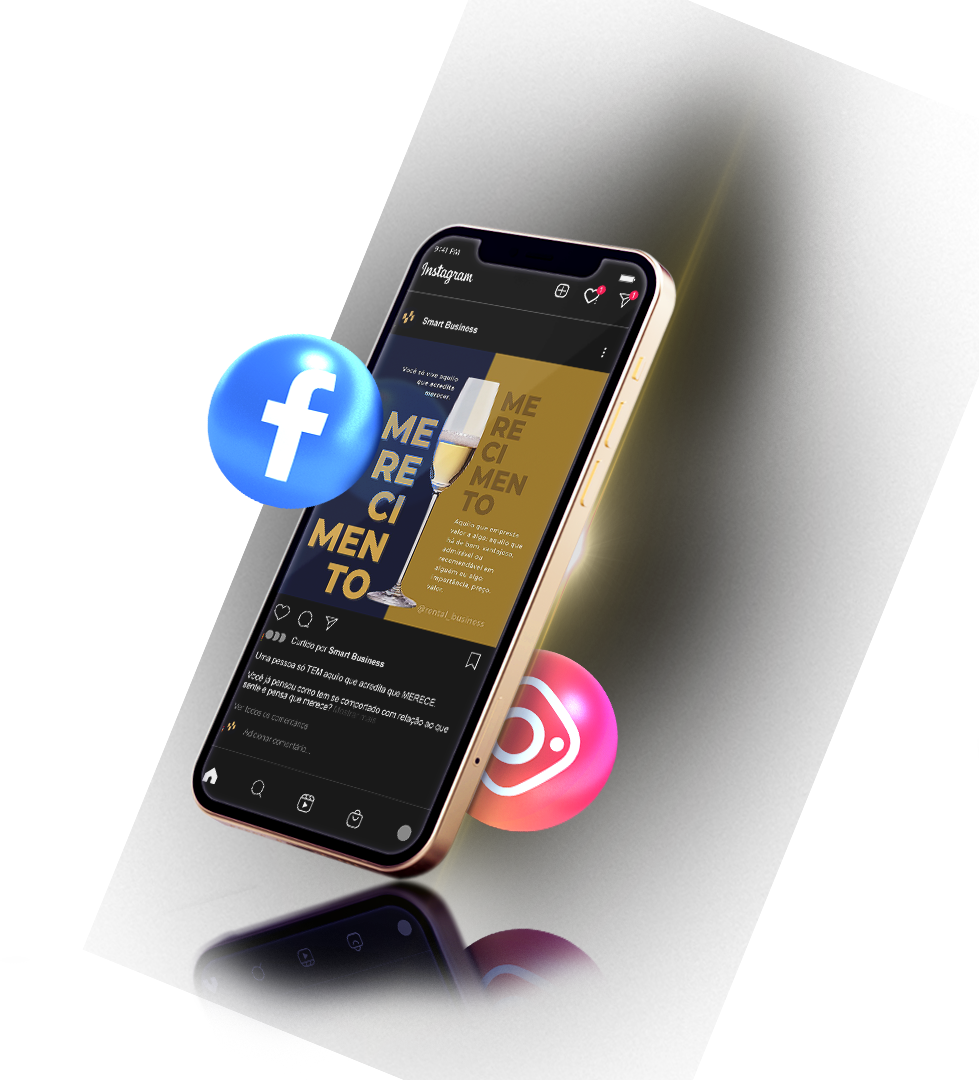
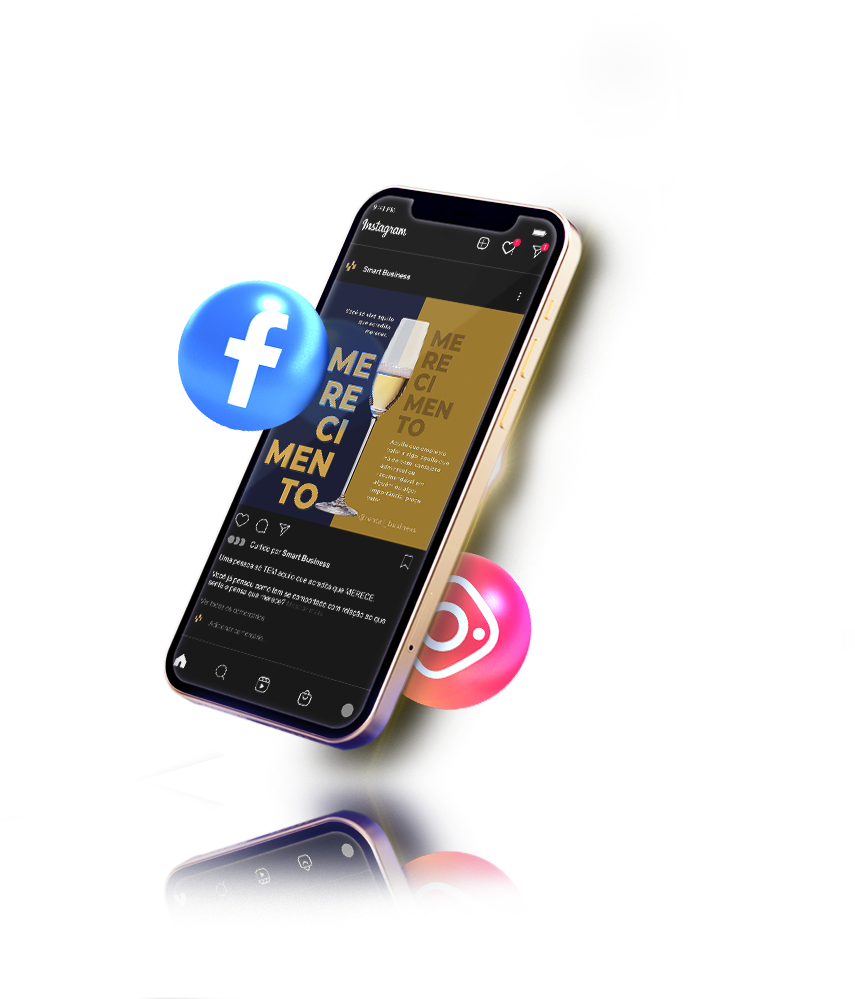
posicionamento de escritas e botoes nas tabs

diff --git a/src/components/front-page-carousel/FollowUs.js b/src/components/front-page-carousel/FollowUs.js
@@ -1,20 +1,21 @@
-import Image from 'next/image';
-import celular from '../../assets/celular.png';
-import AOS from 'aos';
-import 'aos/dist/aos.css';
-import { useEffect } from 'react';
+import Image from "next/image";
+import celular from "../../assets/celular.png";
+import AOS from "aos";
+import "aos/dist/aos.css";
+import { useEffect } from "react";
 
 export function FollowUs(props) {
-	useEffect(() => {
-		AOS.init();
-	}, []);
-	return (
-		<div className="text-gray1 text-opacity-70 text-3xl text-center flex justify-center items-center pr-36 pl-36 h-screen">
-			<div data-aos="fade-up" data-aos-duration="3000">
-				<span>SIGA NOSSAS REDES SOCIAIS</span>
-			</div>
-
-			<Image src={celular} alt="celular" width={400} height={540} />
-		</div>
-	);
+  useEffect(() => {
+    AOS.init();
+  }, []);
+  return (
+    <div className="text-gray1 text-opacity-70 text-3xl text-center flex justify-around items-center pr-36 pl-36 h-screen">
+      <div data-aos="fade-up" data-aos-duration="3000">
+        <span>SIGA NOSSAS REDES SOCIAIS</span>
+      </div>
+      <div className="sm:mt-52 m-0">
+        <Image src={celular} alt="celular" width={400} height={540} />
+      </div>
+    </div>
+  );
 }

diff --git a/src/components/front-page-carousel/SmartBusiness.js b/src/components/front-page-carousel/SmartBusiness.js
@@ -12,8 +12,8 @@ export function SmartBusiness() {
   }, []);
   return (
     <div className="bg-transparent flex justify-between items-center w-screen h-screen sm:px-36 px-7 py-7">
-      <div className="flex flex-col items-center sm:w-1/2 w-1/3 text-left  mr-auto">
-        <h1 className="text-gray1 sm:text-2xl text-base text-opacity-70 text-left sm:mb-12 h-36 w-full sm:ml-10">
+      <div className="flex flex-col items-center sm:w-1/2 w-1/3 mr-auto">
+        <h1 className="text-gray1 sm:text-2xl text-base text-opacity-70 text-center sm:mb-12 h-36 w-full sm:ml-10">
           <Typewriter
             options={{
               delay: 30,
@@ -25,7 +25,7 @@ export function SmartBusiness() {
             }}
           />
         </h1>
-        <div data-aos="zoom-out-down" data-aos-duration="2500">
+        <div className="ml-10" data-aos="zoom-out-down" data-aos-duration="2500">
           <Link href="">
             <button className="btn-5 btn-52">SAIBA MAIS!</button>
           </Link>

diff --git a/src/components/front-page-carousel/SmartAcademy.js b/src/components/front-page-carousel/SmartAcademy.js
@@ -12,8 +12,8 @@ export function SmartAcademy() {
   }, []);
   return (
     <div className="bg-transparent flex justify-between items-center w-screen h-screen sm:px-36 px-7 py-7">
-      <div className="flex flex-col items-center sm:w-1/2 w-1/3 text-left  mr-auto">
-        <h1 className="text-gray1 sm:text-2xl text-base text-opacity-70 text-left sm:mb-12 h-36 w-full sm:ml-10">
+      <div className="flex flex-col items-center sm:w-1/2 w-1/3 mr-auto">
+        <h1 className="text-gray1 sm:text-2xl text-base text-opacity-70 text-center sm:mb-12 h-36 w-full sm:ml-10">
           <Typewriter
             options={{
               delay: 30,
@@ -25,7 +25,7 @@ export function SmartAcademy() {
             }}
           />
         </h1>
-        <div data-aos="fade-left" data-aos-duration="2500">
+        <div className="ml-10" data-aos="fade-left" data-aos-duration="2500">
           <Link href="">
             <button className="btn-6 btn-62">SAIBA MAIS</button>
           </Link>

diff --git a/src/components/front-page-carousel/Franqueado.js b/src/components/front-page-carousel/Franqueado.js
@@ -14,7 +14,7 @@ export function Franqueado() {
     <div className="bg-transparent flex justify-between items-center w-screen h-screen sm:px-36 px-7 py-7">
       <div className="flex flex-col items-center sm:w-1/2 w-1/3 text-left  mr-auto">
         <div data-aos="zoom-in-left" data-aos-duration="2500">
-          <h1 className="text-gray1 sm:text-2xl text-base text-opacity-70 text-left sm:mb-12 h-36 w-full sm:ml-10">
+          <h1 className="text-gray1 sm:text-2xl text-base text-opacity-70 text-center sm:mb-12 h-36 w-full sm:ml-10">
             <Typewriter
               options={{
                 delay: 30,
@@ -30,7 +30,7 @@ export function Franqueado() {
             />
           </h1>
         </div>
-        <div data-aos="fade-right" data-aos-duration="1500">
+        <div className="ml-10" data-aos="fade-right" data-aos-duration="1500">
           <Link href="">
             <button className="btn btn-three"> SAIBA MAIS! </button>
           </Link>

diff --git a/src/components/front-page-carousel/News.js b/src/components/front-page-carousel/News.js
@@ -13,7 +13,7 @@ export function News() {
   return (
     <div className="bg-transparent flex justify-between items-center w-screen h-screen sm:px-36 px-7 py-7">
       <div className="flex flex-col items-center sm:w-1/2 w-1/3 text-left  mr-auto">
-        <h1 className="text-gray1 sm:text-2xl text-base text-opacity-70 text-left sm:mb-12 h-36 w-full sm:ml-10">
+        <h1 className="text-gray1 sm:text-2xl text-base text-opacity-70 text-center sm:mb-12 h-36 w-full sm:ml-10">
           <Typewriter
             options={{
               delay: 30,
@@ -28,7 +28,7 @@ export function News() {
             }}
           />
         </h1>
-        <div data-aos="zoom-in" data-aos-duration="2500">
+        <div className="ml-10" data-aos="zoom-in" data-aos-duration="2500">
           <Link href="">
             <button className="btn-4">SAIBA MAIS</button>
           </Link>

diff --git a/src/components/front-page-carousel/FreeCourse.js b/src/components/front-page-carousel/FreeCourse.js
@@ -13,7 +13,7 @@ export function FreeCourse() {
   return (
     <div className="bg-transparent flex justify-between items-center w-screen h-screen sm:px-36 px-7 py-7">
       <div className="flex flex-col items-center sm:w-1/2 w-1/3 text-left  mr-auto">
-        <h1 className="text-gray1 sm:text-2xl text-base text-opacity-70 text-left sm:mb-12 h-36 w-full sm:ml-10">
+        <h1 className="text-gray1 sm:text-2xl text-base text-opacity-70 text-center sm:mb-12 h-36 w-full sm:ml-10">
           <Typewriter
             options={{
               delay: 30,
@@ -26,7 +26,7 @@ export function FreeCourse() {
           />
         </h1>
 
-        <div data-aos="fade-up" data-aos-duration="2500">
+        <div className="ml-10" data-aos="fade-up" data-aos-duration="2500">
           <Link href="">
             <button className="btn-1">SAIBA MAIS</button>
           </Link>

diff --git a/src/components/front-page-carousel/Ebook.js b/src/components/front-page-carousel/Ebook.js
@@ -41,7 +41,7 @@ export function Ebook() {
             }}
           />
         </h1>
-        <div data-aos="zoom-out-down" data-aos-duration="2500">
+        <div className="ml-10" data-aos="zoom-out-down" data-aos-duration="2500">
           <Link href="">
             <div className="div-neon opacity-60 rounded-sm text-center text-sm">
               <span></span>
